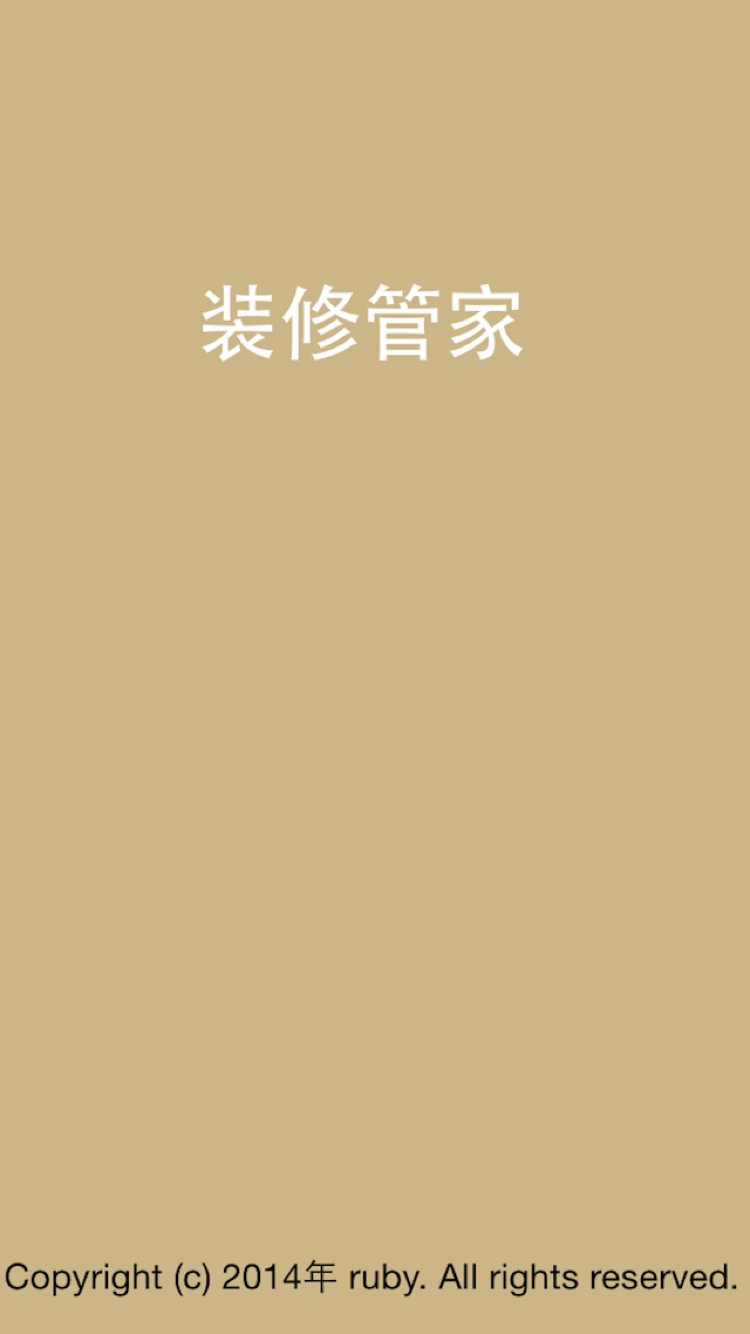
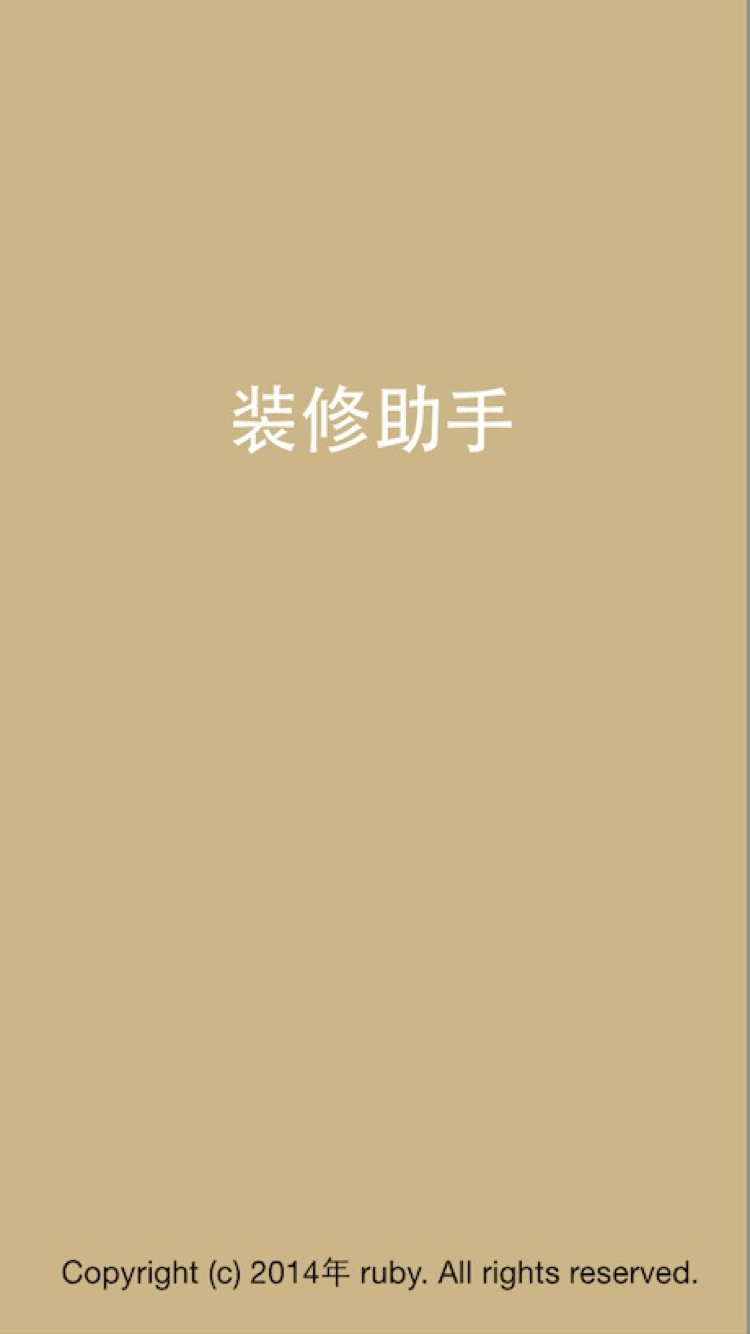
update app name

Changed region(s): [[0.0, 0.0, 1.0, 1.0], [0.276, 0.2151, 0.7053, 0.3381]]

diff --git a/DecorationSteward/AboutMeViewController.swift b/DecorationSteward/AboutMeViewController.swift
@@ -81,7 +81,7 @@ class AboutMeViewController: UIViewController
         copyrightLabel.font = UIFont.systemFontOfSize(12.0);
         copyrightLabel.backgroundColor = UIColor.clearColor();
         copyrightLabel.textColor = UIColor(red: 15.0/255.0, green: 15.0/255.0, blue: 15.0/255.0, alpha: 1.0);
-        copyrightLabel.text = "Copyright ©｜装修管家,版权所有";
+        copyrightLabel.text = "Copyright ©｜装修助手,版权所有";
         
         self.view.addSubview(emailLabel);
         self.view.addSubview(copyrightLabel);

diff --git a/DecorationSteward/SettingViewController.swift b/DecorationSteward/SettingViewController.swift
@@ -12,7 +12,7 @@ class SettingViewController: UIViewController, UITableViewDelegate, UITableViewD
 
     @IBOutlet weak var settingTableView: UITableView!
     
-    var settingItems = ["修改类别", "提交反馈", "关于装修管家"]
+    var settingItems = ["修改类别", "提交反馈", "关于装修助手"]
     var cellReuseIdentifier: String = "settingItemCell"
     
     override func viewDidLoad() {

diff --git a/README.md b/README.md
@@ -1,7 +1,7 @@
-#装修管家
+#装修助手
 
 ###简介
-装修管家旨在深入到装修过程中的各个环节，减轻装修业主负担。  
+装修助手旨在深入到装修过程中的各个环节，减轻装修业主负担。  
 
 只有经历过装修的业主才能明白装修过程中的艰辛、迷茫和幸福。预算、设计、施工、建材选购及后续保修等事项都让业主操碎了心。
 
